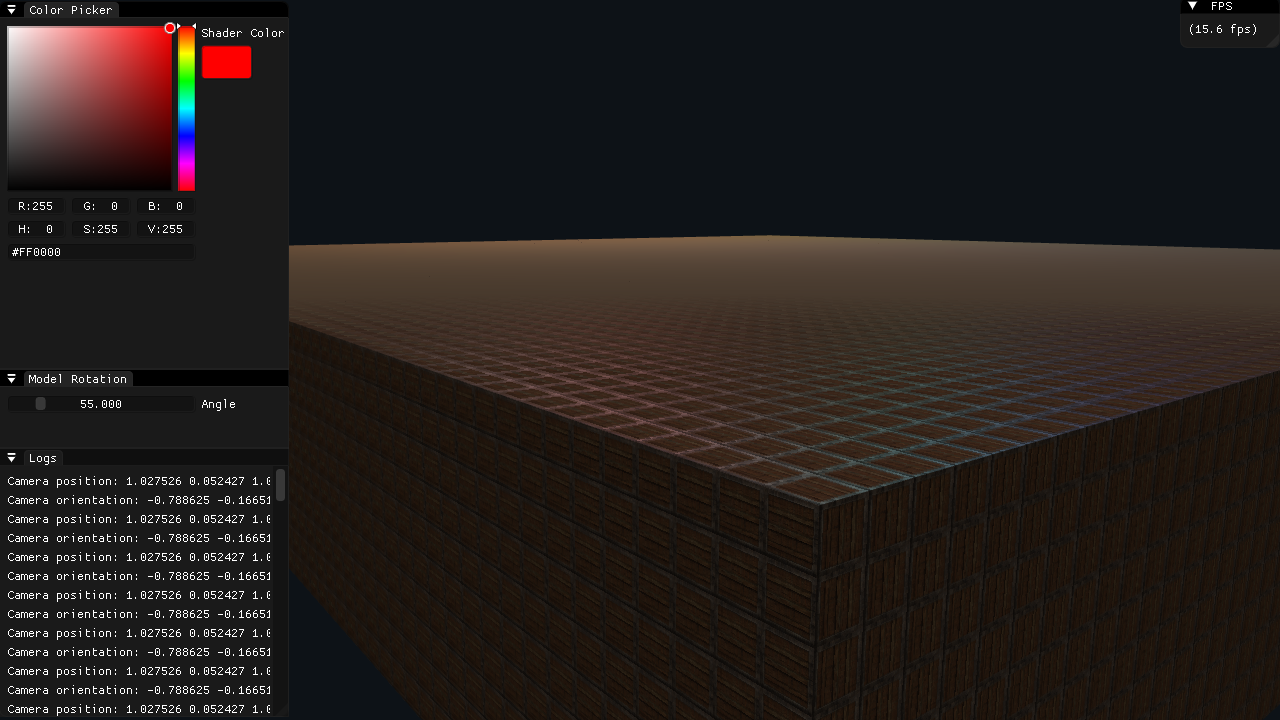
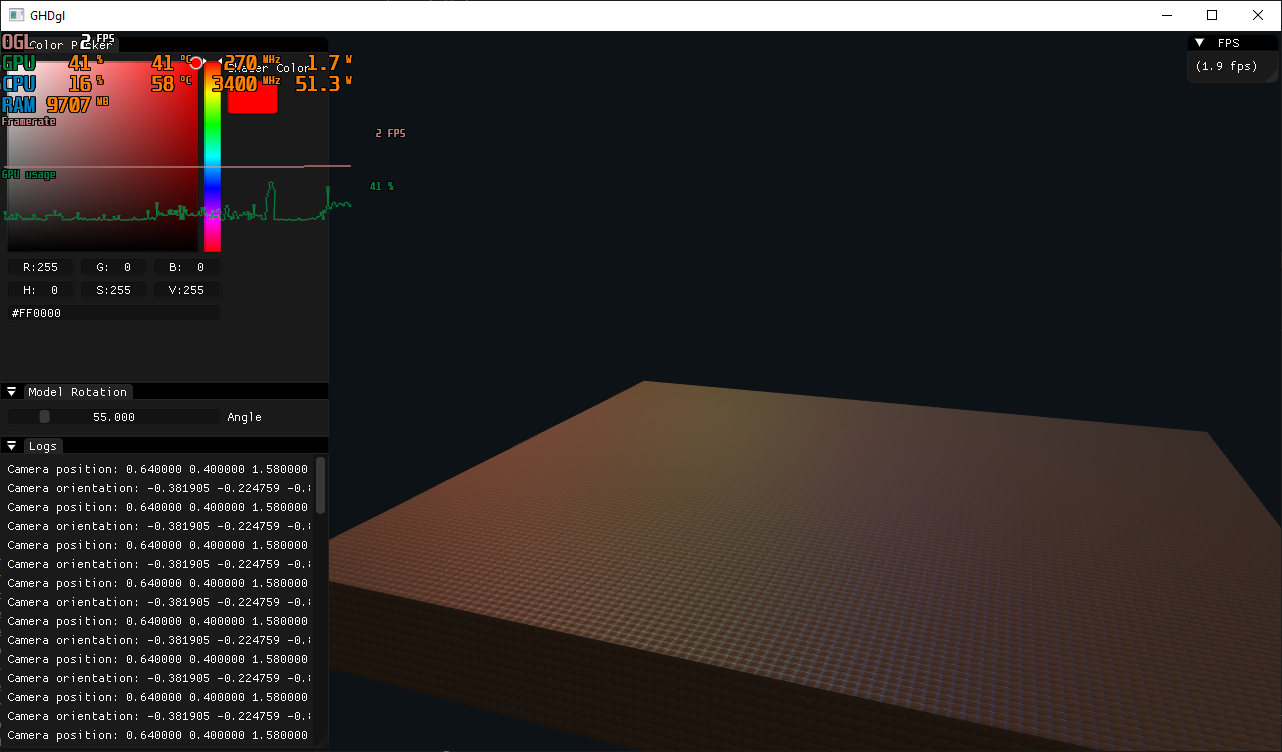
instancing demos added to readme

diff --git a/README.md b/README.md
@@ -55,6 +55,26 @@ cmake --build .
 
 ## Dev Log
 
+## 35. GPU Instancing
+
+Implemented GPU instancing using `glDrawArraysInstanced`.
+
+![instancing](demos/gpu_instancing.png)
+
+Here are the renderdoc events:
+
+![gpu_instancing_rendercalls](demos/gpu_instancing_rendercalls.png)
+
+---
+
+Naive CPU "instancing" for comparison:
+
+![naive_instancing](demos/naive_instancing.png)
+
+Here are the renderdoc events for naive instancing (Soooo many drawcalls slows down the app, also note the lower GPU usage because we are CPU bound):
+
+![gpu_instancing_rendercalls](demos/gpu_instancing_rendercalls.png)
+
 ## 34. Geometry Shader (Normal Viz)
 
 ![normal_viz](demos/geometry_shader_normal.png)
